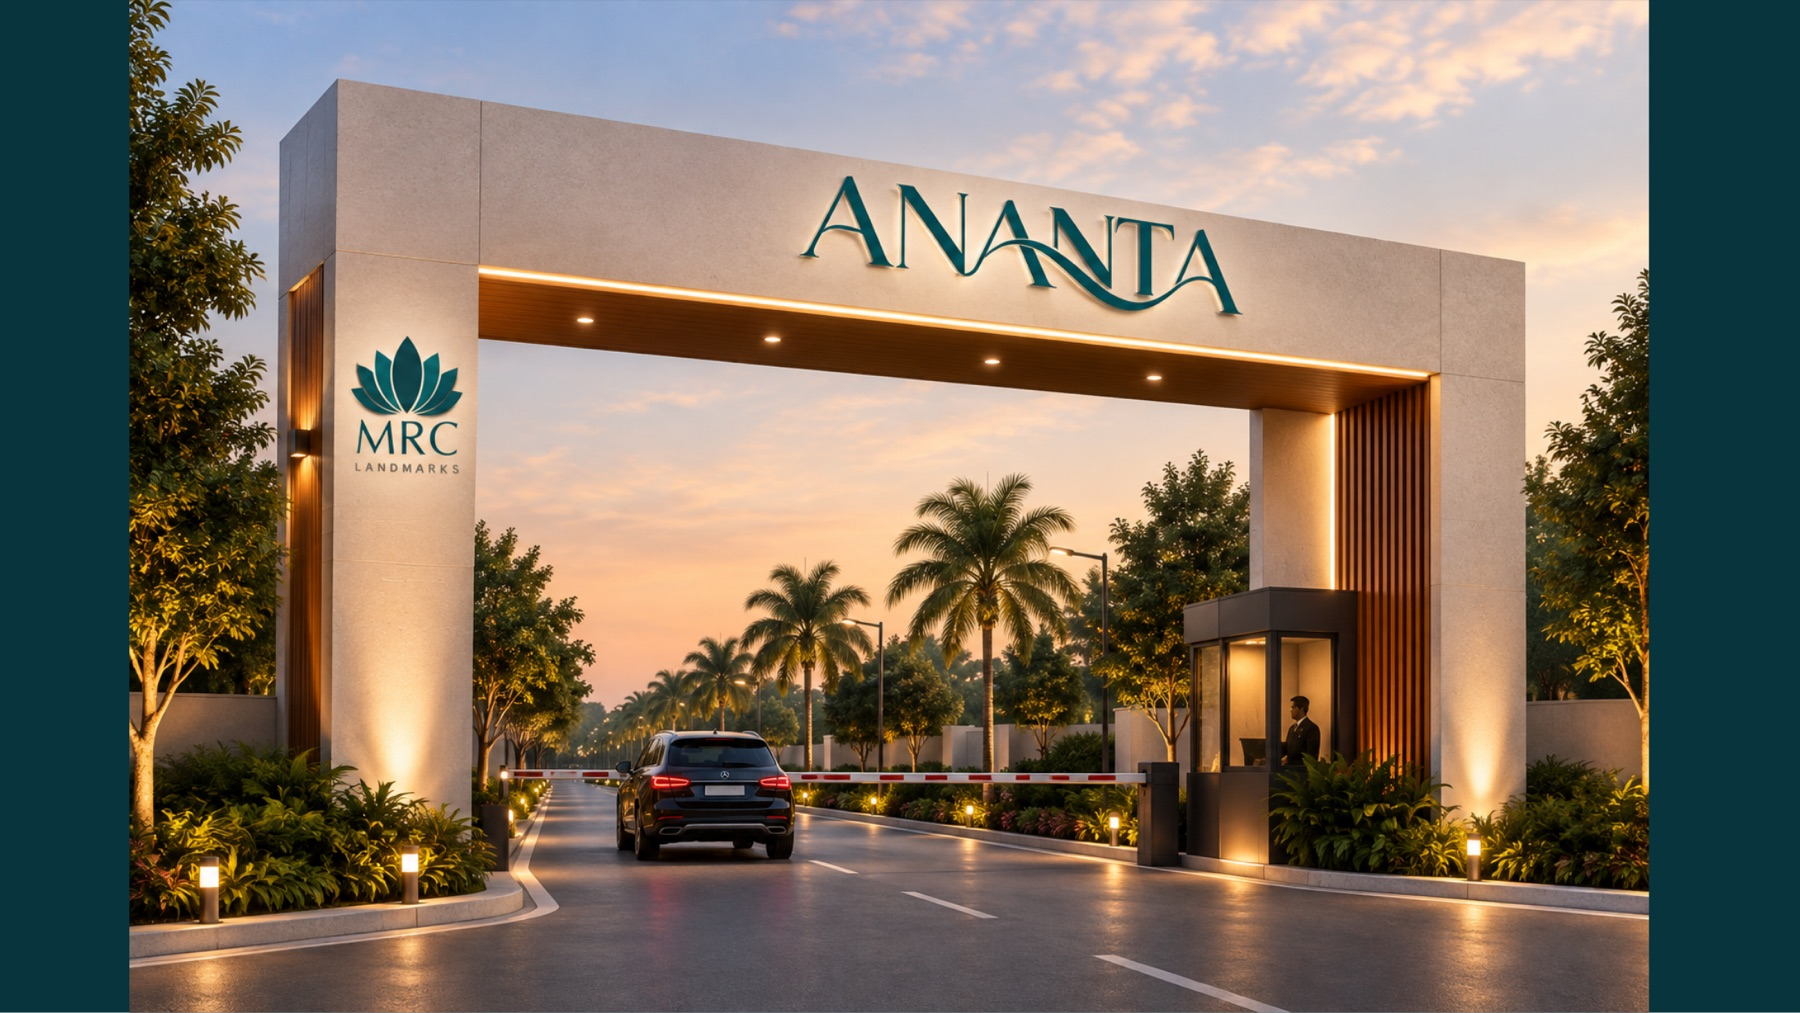
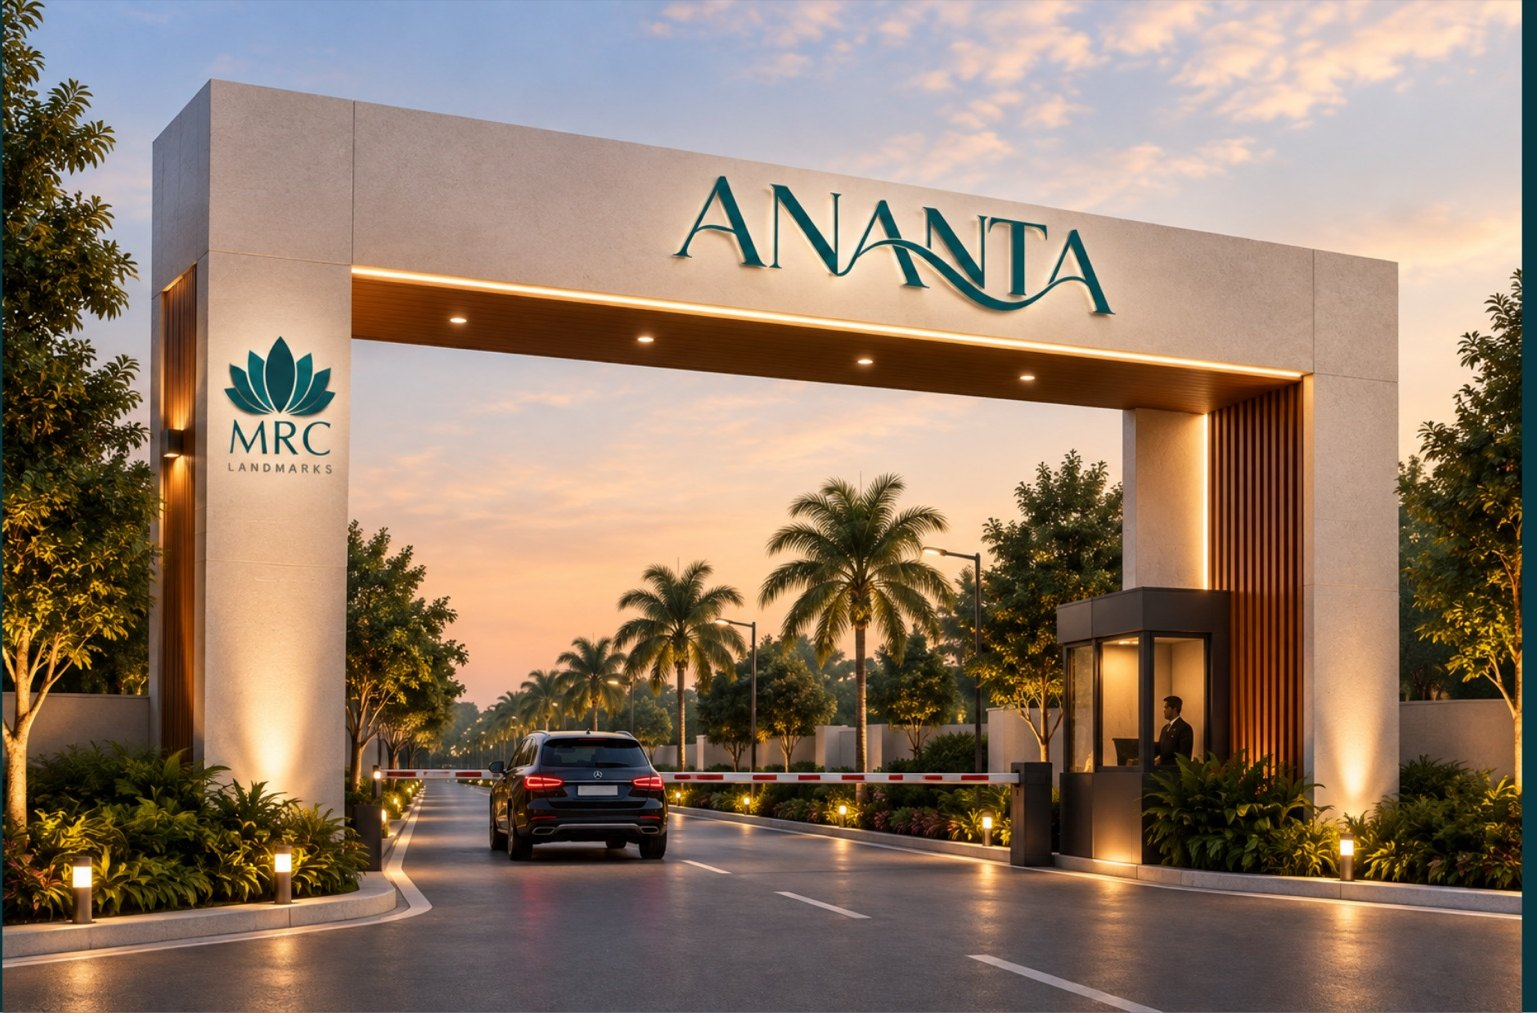
ANANTAA page: crop render margins, one gallery image, one-click path
- Gate and master-plan renders cropped: the PDF export carried the page's
  teal background as bars either side (127–176px), which showed as dead
  space in every figure
- 'Final design subject to approval' caption removed
- Gallery reduced to one image; the family creative shows a villa that a
  plot development does not build
- With a single project there is no listing hop: the Madurai card,
  the Projects nav item and 'Begin the Journey' all land on ANANTAA.
  projects.html becomes a real listing again the moment a second project
  is added to PROJECTS

diff --git a/projects.html b/projects.html
@@ -4,8 +4,8 @@
 <script>document.documentElement.className="js";</script>
 <meta charset="utf-8">
 <meta name="viewport" content="width=device-width, initial-scale=1">
-<title>Projects | MRC Landmarks</title>
-<meta name="description" content="MRC Landmarks plotted developments across Southern Tamil Nadu, by city.">
+<title>ANANTAA &mdash; A Life Without Limits | Othakadai, Madurai | MRC Landmarks</title>
+<meta name="description" content="ANANTAA: 50 villa plots across 2.145 acres at Othakadai, Madurai, beside Yanaimalai. DTCP approved &middot; TNRERA registered.">
 <link rel="icon" type="image/svg+xml" href="mrc-logo.svg">
 <link rel="icon" type="image/png" href="MRC LOGO LOTUS25 copy.pdf.png">
 <link rel="apple-touch-icon" href="MRC LOGO LOTUS25 copy.pdf.png">
@@ -59,24 +59,95 @@
   </div>
 </div>
 <main>
-<section class="pagehead img" style="background-image:url('5db28d84-affe-4203-96e5-90852a4c59f6.png');background-size:cover;background-position:center 40%">
+<section class="pagehead img" style="background-image:url('anantaa-gate.jpg');background-size:cover;background-position:center 30%">
   <div class="wrap">
-    <p class="crumb"><a href="index.html">Home</a> &nbsp;/&nbsp; Projects</p>
+    <p class="crumb"><a href="index.html">Home</a> &nbsp;/&nbsp; Madurai</p>
     <div class="rule"></div>
-    <h1 class="display">Find the right land in the right location.</h1>
-    <p>Every MRC development, by city. Each page shows only what is confirmed on the approved drawing.</p>
+    <h1 class="display">ANANTAA.</h1>
+    <p>A Life Without Limits &mdash; Othakadai, Madurai. 50 plots across 2.145 acres, beside Yanaimalai hill.</p>
   </div>
 </section>
   <section>
     <div class="wrap">
-      <div class="posts" style="margin-top:0">
-        <a class="post reveal" id="madurai" href="project-anantaa.html">
-          <div class="k">Madurai</div>
-          <h3>ANANTAA</h3>
-          <p>Fifty villa plots beside Yanaimalai at Othakadai, laid out around 7.2 m and 9.0 m internal roads with a tenth of the land kept as open space.</p>
-          <p style="margin-top:.8rem;font-size:.8rem;color:var(--teal);font-weight:600">2.145 acres &middot; 50 plots &middot; DTCP approved &middot; TNRERA registered</p>
-          <span class="go">Project details &rarr;</span>
-        </a>
+      <p class="eyebrow reveal">Pre-launch</p>
+      <div class="rule"></div>
+      <h2 class="display reveal">A Life Without Limits.</h2>
+      <p class="lede reveal" style="margin-top:1.2rem">Fifty villa plots beside Yanaimalai at Othakadai, laid out around 7.2 m and 9.0 m internal roads with a tenth of the land kept as open space.</p>
+      <div class="features">
+        <span class="feature">Premium villa plots</span>
+        <span class="feature">Excellent connectivity</span>
+        <span class="feature">Refined lifestyle amenities</span>
+        <span class="feature">A secure tomorrow</span>
+        <span class="feature">A landmark for generations</span>
+      </div>
+    </div>
+  </section>
+
+  <section class="alt">
+    <div class="wrap">
+      <p class="eyebrow reveal">Master Plan</p>
+      <div class="rule"></div>
+      <h2 class="display reveal">Fifty plots, drawn to the approval.</h2>
+      <p class="lede reveal" style="margin-top:1.2rem">Plot numbers, road widths and the open-space reserve exactly as they appear on the approved layout. Tap to enlarge.</p>
+      <a class="figure" href="anantaa-masterplan.jpg" target="_blank" rel="noopener"><img src="anantaa-masterplan.jpg" alt="ANANTAA master plan &mdash; 50 numbered plots"><div class="cap"><strong>Approved layout &middot; Ref 7CGTNBEB</strong><span>7.2 m and 9.0 m internal roads &middot; 601 sq.m park &middot; north at top</span></div></a>
+    </div>
+  </section>
+
+  <section>
+    <div class="wrap">
+      <p class="eyebrow reveal">Infrastructure</p>
+      <div class="rule"></div>
+      <h2 class="display reveal">What is being built in.</h2>
+      <div class="amenities">
+        <div class="amenity"><div class="ico"><svg width="22" height="22" viewBox="0 0 24 24" fill="none" stroke="currentColor" stroke-width="1.7" stroke-linecap="round" stroke-linejoin="round"><path d="M3 10h18M3 14h18"/><path d="M7 10V6a2 2 0 0 1 2-2h6a2 2 0 0 1 2 2v4M7 14v4a2 2 0 0 0 2 2h6a2 2 0 0 0 2-2v-4"/><path d="M12 17v3"/></svg></div><strong>Interconnected drains</strong><span>Storm water leaves the site, not your plot</span></div>
+        <div class="amenity"><div class="ico"><svg width="22" height="22" viewBox="0 0 24 24" fill="none" stroke="currentColor" stroke-width="1.7" stroke-linecap="round" stroke-linejoin="round"><circle cx="12" cy="6" r="3"/><path d="M12 1v1M12 10v1M7.5 6h-1M17.5 6h-1M8.8 2.8l-.7-.7M15.9 9.2l-.7-.7M8.8 9.2l-.7.7M15.9 2.8l-.7.7"/><path d="M12 11v11M8 22h8"/></svg></div><strong>Smart solar lighting</strong><span>Streets lit without a running bill</span></div>
+        <div class="amenity"><div class="ico"><svg width="22" height="22" viewBox="0 0 24 24" fill="none" stroke="currentColor" stroke-width="1.7" stroke-linecap="round" stroke-linejoin="round"><path d="M3 21V9l9-6 9 6v12"/><path d="M8 21v-9h8v9"/><path d="M12 12v9"/></svg></div><strong>Multiple gated entrances</strong><span>Controlled access from more than one side</span></div>
+        <div class="amenity"><div class="ico"><svg width="22" height="22" viewBox="0 0 24 24" fill="none" stroke="currentColor" stroke-width="1.7" stroke-linecap="round" stroke-linejoin="round"><path d="M12 22v-7"/><path d="M8 15h8l-2-4h1l-3-4h1L12 3 9 7h1l-3 4h1z"/></svg></div><strong>Tree-lined avenues</strong><span>Shade on every internal road</span></div>
+      </div>
+    </div>
+  </section>
+
+  <section class="alt">
+    <div class="wrap">
+      <p class="eyebrow reveal">Entrance</p>
+      <div class="rule"></div>
+      <h2 class="display reveal">Arrive somewhere.</h2>
+      <figure class="figure"><span class="impression">Artist&rsquo;s impression</span><img src="anantaa-gate.jpg" alt="ANANTAA entrance concept" loading="lazy"><div class="cap"><strong>Entrance concept</strong></div></figure>
+      <div class="gallery">
+        <figure class="figure"><span class="impression">Artist&rsquo;s impression</span><img src="anantaa-amenities.jpg" alt="" loading="lazy"></figure>
+      </div>
+    </div>
+  </section>
+
+  <section>
+    <div class="wrap">
+      <p class="eyebrow reveal">On Record</p>
+      <div class="rule"></div>
+      <h2 class="display reveal">What is confirmed.</h2>
+      <p class="lede reveal" style="margin-top:1.2rem">Every figure below is taken from the approved layout drawing. Nothing is published here before it can be checked.</p>
+      <dl class="facts">
+        <div class="fact reveal"><dt>Location</dt><dd>Othakadai, beside Yanaimalai &mdash; Madurai East Taluk, Madurai District</dd></div>
+        <div class="fact reveal"><dt>Survey village</dt><dd>Kodikkulam &ndash; 1st Bit Gramam</dd></div>
+        <div class="fact reveal"><dt>Local body</dt><dd>Kodikkulam Village Panchayat, Madurai East Panchayat Union</dd></div>
+        <div class="fact reveal"><dt>Total extent</dt><dd>2.145 acres &middot; 8,650 sq.m</dd></div>
+        <div class="fact reveal"><dt>Number of plots</dt><dd>50 (numbered 1&ndash;50)</dd></div>
+        <div class="fact reveal"><dt>Survey numbers</dt><dd>153/2A1, 153/2A2, 153/2A3, 153/2A4, 153/3A, 153/3B, 153/3C, 153/5</dd></div>
+        <div class="fact reveal"><dt>Internal roads</dt><dd>7.2 m and 9.0 m</dd></div>
+        <div class="fact reveal"><dt>Park / open space</dt><dd>601 sq.m &middot; 10% of the layout</dd></div>
+        <div class="fact reveal"><dt>Local-body allocation</dt><dd>32.81 sq.m &middot; 0.55%</dd></div>
+        <div class="fact reveal"><dt>TANGEDCO allocation</dt><dd>36.14 sq.m &middot; 0.60%</dd></div>
+        <div class="fact reveal"><dt>Drainage</dt><dd>Existing vaikkal / water channel, with a proposed bridge</dd></div>
+        <div class="fact reveal"><dt>DTCP approval</dt><dd>Approved &mdash; reference 7CGTNBEB</dd></div>
+        <div class="fact reveal"><dt>TNRERA</dt><dd>Registered &mdash; registration number to be displayed here</dd></div>
+        <div class="fact reveal"><dt>Infrastructure</dt><dd>Roads and basic services under development, to be certified by the local body</dd></div>
+      </dl>
+      <div class="notice">
+        <strong>Plot pricing and bookings</strong>
+        <p>Plot sizes carry multiple dimensions across the layout, and plot-wise facing and availability are taken from the approved drawing. Pricing and booking details are published once registration under the applicable regulations is complete.</p>
+      </div>
+      <div class="hero-cta">
+        <a class="btn btn-ink" href="https://mrc-event.vercel.app/visit">Book a site visit</a>
+        <a class="btn btn-out" href="https://wa.me/918925972469">Ask on WhatsApp</a>
       </div>
     </div>
   </section>

diff --git a/project-anantaa.html b/project-anantaa.html
@@ -112,10 +112,9 @@
       <p class="eyebrow reveal">Entrance</p>
       <div class="rule"></div>
       <h2 class="display reveal">Arrive somewhere.</h2>
-      <figure class="figure"><span class="impression">Artist&rsquo;s impression</span><img src="anantaa-gate.jpg" alt="ANANTAA entrance concept" loading="lazy"><div class="cap"><strong>Entrance concept</strong><span>Final design subject to approval</span></div></figure>
+      <figure class="figure"><span class="impression">Artist&rsquo;s impression</span><img src="anantaa-gate.jpg" alt="ANANTAA entrance concept" loading="lazy"><div class="cap"><strong>Entrance concept</strong></div></figure>
       <div class="gallery">
         <figure class="figure"><span class="impression">Artist&rsquo;s impression</span><img src="anantaa-amenities.jpg" alt="" loading="lazy"></figure>
-        <figure class="figure"><span class="impression">Artist&rsquo;s impression</span><img src="anantaa-family.jpg" alt="" loading="lazy"></figure>
       </div>
     </div>
   </section>

diff --git a/project.html b/project.html
@@ -112,10 +112,9 @@
       <p class="eyebrow reveal">Entrance</p>
       <div class="rule"></div>
       <h2 class="display reveal">Arrive somewhere.</h2>
-      <figure class="figure"><span class="impression">Artist&rsquo;s impression</span><img src="anantaa-gate.jpg" alt="ANANTAA entrance concept" loading="lazy"><div class="cap"><strong>Entrance concept</strong><span>Final design subject to approval</span></div></figure>
+      <figure class="figure"><span class="impression">Artist&rsquo;s impression</span><img src="anantaa-gate.jpg" alt="ANANTAA entrance concept" loading="lazy"><div class="cap"><strong>Entrance concept</strong></div></figure>
       <div class="gallery">
         <figure class="figure"><span class="impression">Artist&rsquo;s impression</span><img src="anantaa-amenities.jpg" alt="" loading="lazy"></figure>
-        <figure class="figure"><span class="impression">Artist&rsquo;s impression</span><img src="anantaa-family.jpg" alt="" loading="lazy"></figure>
       </div>
     </div>
   </section>

diff --git a/locations.html b/locations.html
@@ -73,10 +73,10 @@
       <div class="rule"></div>
       <h2 class="display reveal">Where MRC builds.</h2>
       <div class="citycards">
-        <a class="citycard reveal" href="projects.html#madurai">
+        <a class="citycard reveal" href="project-anantaa.html">
           <h3>Madurai</h3>
           <div class="meta">1 project &middot; ANANTAA</div>
-          <span class="go">View projects &rarr;</span>
+          <span class="go">View project &rarr;</span>
         </a>
       </div>
     </div>
